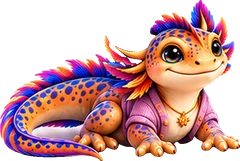
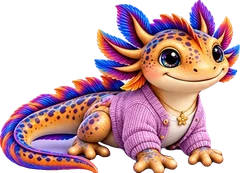
Orange Mom Neut: clean cut from character sheet, both eyes open, even crest

diff --git a/index.html b/index.html
@@ -6,7 +6,7 @@
 <p class="lede blurin">Calendars, journals, and everyday plans in one place.</p>
 <p class="hero-cta"><a class="btn big" href="https://app.ai-neut.com/">Explore the app</a><a class="btn big ghost" href="#neuts">Meet your Neut</a></p>
 <p class="included"><b>Free core app • No ads</b> · Made for ages 13 and up · Phone &amp; web</p><ul class="store-pills" aria-label="App stores"><li class="store-pill"><svg viewBox="0 0 24 24" aria-hidden="true" focusable="false"><path fill="#5B3A99" d="M5 3.5v17a1 1 0 0 0 1.5.86l14.2-8.5a1 1 0 0 0 0-1.72L6.5 2.64A1 1 0 0 0 5 3.5z"/></svg>Google Play <small>— coming soon</small></li><li class="store-pill"><svg viewBox="0 0 24 24" aria-hidden="true" focusable="false"><rect x="6" y="2" width="12" height="20" rx="3" fill="none" stroke="#5B3A99" stroke-width="2"/><circle cx="12" cy="18" r="1.2" fill="#5B3A99"/></svg>App Store <small>— coming soon</small></li></ul></div>
-<div class="hero-visual"><div class="laptop" aria-hidden="true"><div class="lt-screen"><div class="lt-bar"><b>Family calendar</b><span>This week</span></div><div class="lt-week"><div><b>Mon</b><i class="ev1">Soccer 4:00</i><i class="ev4">Grocery run</i></div><div><b>Tue</b><i class="ev2">Library day</i></div><div><b>Wed</b><i class="ev3">Science project due</i><i class="ev5">Dentist 3:30</i></div><div><b>Thu</b><i class="ev4">Piano 5:30</i></div><div><b>Fri</b><i class="ev1">Pizza night</i><i class="ev2">Movie</i></div><div><b>Sat</b><i class="ev3">Volleyball 10:00</i></div><div><b>Sun</b><i class="ev5">Family check-in</i></div></div></div><div class="lt-base"></div></div><div class="stage" role="region" aria-label="Ai-Neut in motion"><div class="screen"><div class="slide" data-bg="media/newt-lens.jpg"><video class="lv-stage" muted playsinline preload="metadata" poster="media/newt-lens.jpg" data-src="media/newt-lens.mp4" data-webm="media/newt-lens.webm" aria-hidden="true"></video><span class="chip">Calendar</span><span class="chip o">One plan for every phone</span></div><div class="slide" data-bg="media/reel-journal.jpg"><video class="lv-stage" muted playsinline preload="none" poster="media/reel-journal.jpg" data-src="media/reel-journal.mp4" data-webm="media/reel-journal.webm" aria-hidden="true"></video><span class="chip">Journal</span><span class="chip o">Keep the good moments</span></div><div class="slide" data-bg="media/reel-themes.jpg"><video class="lv-stage" muted playsinline preload="none" poster="media/reel-themes.jpg" data-src="media/reel-themes.mp4" data-webm="media/reel-themes.webm" aria-hidden="true"></video><span class="chip">Themes</span><span class="chip o">Pick a look for your house</span></div><div class="slide" data-bg="media/reel-newts2.jpg"><video class="lv-stage" muted playsinline preload="none" poster="media/reel-newts2.jpg" data-src="media/reel-newts2.mp4" data-webm="media/reel-newts2.webm" aria-hidden="true"></video><span class="chip">Playful newts</span><span class="chip o">No ads, ever</span></div></div><div class="thumbs"><button type="button" aria-label="Show: Calendar"><img src="media/newt-lens.jpg" alt="" width="62" height="62" loading="lazy"><span class="bar"></span></button><button type="button" aria-label="Show: Journal"><img src="media/reel-journal.jpg" alt="" width="62" height="62" loading="lazy"><span class="bar"></span></button><button type="button" aria-label="Show: Themes"><img src="media/reel-themes.jpg" alt="" width="62" height="62" loading="lazy"><span class="bar"></span></button><button type="button" aria-label="Show: Playful newts"><img src="media/reel-newts2.jpg" alt="" width="62" height="62" loading="lazy"><span class="bar"></span></button></div></div><span class="floaty hero-friend front-o" data-depth="0.06" aria-hidden="true"><img src="img/neuts/neut-orange-240.webp" srcset="img/neuts/neut-orange-240.webp 240w, img/neuts/neut-orange-480.webp 480w" sizes="190px" width="240" height="161" alt="" decoding="async" style="--bob:6.5s;--bd:0s"></span><span class="floaty front-s" data-depth="0.12" aria-hidden="true"><img src="img/neuts/neut-silver-240.webp" srcset="img/neuts/neut-silver-240.webp 240w, img/neuts/neut-silver-480.webp 480w" sizes="170px" width="240" height="227" alt="" decoding="async" style="--bob:6.2s;--bd:-2s"></span></div><div class="hero-cards"><article class="card hcard"><h3>Plan your week</h3><p>Keep everyone on track with shared calendars.</p><p class="who">Dad<span class="tag">Calendar champion</span></p><img src="img/neuts/neut-dad-240.webp" srcset="img/neuts/neut-dad-240.webp 240w, img/neuts/neut-dad-376.webp 376w" sizes="(max-width:860px) 45vw, 16vw" width="240" height="237" alt="Dad Neut in a work jacket" loading="lazy" decoding="async"></article><article class="card hcard"><h3>Make room for school</h3><p>Assignments, due dates, and study planning made simple.</p><p class="who">Teacher<span class="tag">Learning buddy</span></p><img src="img/neuts/neut-teacher-240.webp" width="240" height="309" alt="Teacher Neut with glasses" loading="lazy" decoding="async"></article><article class="card hcard"><h3>Keep the good moments</h3><p>A private journal for everyday memories, gratitude, and growth.</p><p class="who">Mom<span class="tag">Memory keeper</span></p><img src="img/neuts/neut-mom-240.webp" srcset="img/neuts/neut-mom-240.webp 240w, img/neuts/neut-mom-367.webp 367w" sizes="(max-width:860px) 45vw, 16vw" width="240" height="215" alt="Mom Neut in a pink cardigan" loading="lazy" decoding="async"></article></div><span class="scroll-cue" aria-hidden="true">Scroll</span></header>
+<div class="hero-visual"><div class="laptop" aria-hidden="true"><div class="lt-screen"><div class="lt-bar"><b>Family calendar</b><span>This week</span></div><div class="lt-week"><div><b>Mon</b><i class="ev1">Soccer 4:00</i><i class="ev4">Grocery run</i></div><div><b>Tue</b><i class="ev2">Library day</i></div><div><b>Wed</b><i class="ev3">Science project due</i><i class="ev5">Dentist 3:30</i></div><div><b>Thu</b><i class="ev4">Piano 5:30</i></div><div><b>Fri</b><i class="ev1">Pizza night</i><i class="ev2">Movie</i></div><div><b>Sat</b><i class="ev3">Volleyball 10:00</i></div><div><b>Sun</b><i class="ev5">Family check-in</i></div></div></div><div class="lt-base"></div></div><div class="stage" role="region" aria-label="Ai-Neut in motion"><div class="screen"><div class="slide" data-bg="media/newt-lens.jpg"><video class="lv-stage" muted playsinline preload="metadata" poster="media/newt-lens.jpg" data-src="media/newt-lens.mp4" data-webm="media/newt-lens.webm" aria-hidden="true"></video><span class="chip">Calendar</span><span class="chip o">One plan for every phone</span></div><div class="slide" data-bg="media/reel-journal.jpg"><video class="lv-stage" muted playsinline preload="none" poster="media/reel-journal.jpg" data-src="media/reel-journal.mp4" data-webm="media/reel-journal.webm" aria-hidden="true"></video><span class="chip">Journal</span><span class="chip o">Keep the good moments</span></div><div class="slide" data-bg="media/reel-themes.jpg"><video class="lv-stage" muted playsinline preload="none" poster="media/reel-themes.jpg" data-src="media/reel-themes.mp4" data-webm="media/reel-themes.webm" aria-hidden="true"></video><span class="chip">Themes</span><span class="chip o">Pick a look for your house</span></div><div class="slide" data-bg="media/reel-newts2.jpg"><video class="lv-stage" muted playsinline preload="none" poster="media/reel-newts2.jpg" data-src="media/reel-newts2.mp4" data-webm="media/reel-newts2.webm" aria-hidden="true"></video><span class="chip">Playful newts</span><span class="chip o">No ads, ever</span></div></div><div class="thumbs"><button type="button" aria-label="Show: Calendar"><img src="media/newt-lens.jpg" alt="" width="62" height="62" loading="lazy"><span class="bar"></span></button><button type="button" aria-label="Show: Journal"><img src="media/reel-journal.jpg" alt="" width="62" height="62" loading="lazy"><span class="bar"></span></button><button type="button" aria-label="Show: Themes"><img src="media/reel-themes.jpg" alt="" width="62" height="62" loading="lazy"><span class="bar"></span></button><button type="button" aria-label="Show: Playful newts"><img src="media/reel-newts2.jpg" alt="" width="62" height="62" loading="lazy"><span class="bar"></span></button></div></div><span class="floaty hero-friend front-o" data-depth="0.06" aria-hidden="true"><img src="img/neuts/neut-orange-240.webp" srcset="img/neuts/neut-orange-240.webp 240w, img/neuts/neut-orange-480.webp 480w" sizes="190px" width="240" height="173" alt="" decoding="async" style="--bob:6.5s;--bd:0s"></span><span class="floaty front-s" data-depth="0.12" aria-hidden="true"><img src="img/neuts/neut-silver-240.webp" srcset="img/neuts/neut-silver-240.webp 240w, img/neuts/neut-silver-480.webp 480w" sizes="170px" width="240" height="227" alt="" decoding="async" style="--bob:6.2s;--bd:-2s"></span></div><div class="hero-cards"><article class="card hcard"><h3>Plan your week</h3><p>Keep everyone on track with shared calendars.</p><p class="who">Dad<span class="tag">Calendar champion</span></p><img src="img/neuts/neut-dad-240.webp" srcset="img/neuts/neut-dad-240.webp 240w, img/neuts/neut-dad-376.webp 376w" sizes="(max-width:860px) 45vw, 16vw" width="240" height="237" alt="Dad Neut in a work jacket" loading="lazy" decoding="async"></article><article class="card hcard"><h3>Make room for school</h3><p>Assignments, due dates, and study planning made simple.</p><p class="who">Teacher<span class="tag">Learning buddy</span></p><img src="img/neuts/neut-teacher-240.webp" width="240" height="309" alt="Teacher Neut with glasses" loading="lazy" decoding="async"></article><article class="card hcard"><h3>Keep the good moments</h3><p>A private journal for everyday memories, gratitude, and growth.</p><p class="who">Mom<span class="tag">Memory keeper</span></p><img src="img/neuts/neut-mom-240.webp" srcset="img/neuts/neut-mom-240.webp 240w, img/neuts/neut-mom-367.webp 367w" sizes="(max-width:860px) 45vw, 16vw" width="240" height="215" alt="Mom Neut in a pink cardigan" loading="lazy" decoding="async"></article></div><span class="scroll-cue" aria-hidden="true">Scroll</span></header>
 <!--tester-cta:start--><section id="tester-cta" aria-labelledby="tester-cta-h"><div class="tc-card"><picture class="tc-art"><source type="image/webp" srcset="img/doug-300.webp 300w, img/doug-600.webp 600w" sizes="150px"><img src="img/doug-300.png" srcset="img/doug-300.png 300w, img/doug-600.png 600w" sizes="150px" width="300" height="238" alt="Doug, the Ai-Neut newt mascot" loading="lazy" decoding="async"></picture><div class="tc-copy"><h2 id="tester-cta-h">Would you like to be a tester?</h2><p>Help us get <b>Ai-Neut</b> ready for Android. Try it for 14 days and tell us what you think.</p></div><a class="tc-btn" href="/test.html">Become a tester</a></div></section><style>#tester-cta{padding:16px 6% 8px}#tester-cta .tc-card{max-width:880px;margin:auto;box-sizing:border-box;display:flex;align-items:center;gap:18px;background:#000;border-radius:16px;padding:16px 22px;border:2px solid #6B3FA0;box-shadow:0 4px 18px rgba(107,63,160,.25)}#tester-cta .tc-art{flex:0 0 auto;line-height:0}#tester-cta .tc-art img{display:block;width:150px;height:auto}#tester-cta .tc-copy{flex:1 1 auto;min-width:0}#tester-cta h2{margin:0 0 4px;text-align:left;font-size:clamp(1.25rem,3vw,1.6rem);color:#F28C28}#tester-cta p{margin:0;line-height:1.5;color:#C9A8F2}#tester-cta p b{color:#F28C28}#tester-cta .tc-btn{flex:0 0 auto;display:inline-flex;align-items:center;justify-content:center;min-height:44px;box-sizing:border-box;padding:10px 22px;border-radius:30px;background:#6B3FA0;color:#fff;border:2px solid #B48CE8;font-family:sans-serif;font-weight:bold;text-decoration:none;white-space:nowrap}#tester-cta .tc-btn:hover{background:#7d4fb5}#tester-cta .tc-btn:focus-visible{outline:3px solid #F28C28;outline-offset:3px}@media(max-width:600px){#tester-cta .tc-card{flex-direction:column;align-items:stretch;text-align:center;padding:16px}#tester-cta .tc-art{align-self:center}#tester-cta .tc-art img{width:140px}#tester-cta h2{text-align:center}#tester-cta .tc-btn{white-space:normal}}</style><!--tester-cta:end-->
 <section id="neuts" aria-labelledby="neuts-h"><div class="sec-head"><div><h2 id="neuts-h">Find your <span class="o">kind of Neut</span></h2><p>Choose a companion to make your app feel like home.</p></div><a class="btn ghost" href="learning-center.html#companions">Meet all the Neuts →</a></div><div class="neut-row"><figure class="ntile" style="--f:384"><img src="img/neuts/tile-mom.webp" width="384" height="372" alt="Mom Neut" loading="lazy" decoding="async"><figcaption>Mom<br><span class="tag">Memory keeper</span></figcaption></figure><figure class="ntile" style="--f:340"><img src="img/neuts/tile-dad.webp" width="340" height="372" alt="Dad Neut" loading="lazy" decoding="async"><figcaption>Dad<br><span class="tag">Calendar champion</span></figcaption></figure><figure class="ntile" style="--f:350"><img src="img/neuts/tile-skater.webp" width="350" height="372" alt="Skater Girl Neut" loading="lazy" decoding="async"><figcaption>Skater Girl<br><span class="tag">Adventure buddy</span></figcaption></figure><figure class="ntile" style="--f:300"><img src="img/neuts/tile-nurse.webp" width="300" height="372" alt="Nurse Neut" loading="lazy" decoding="async"><figcaption>Nurse<br><span class="tag">Care supporter</span></figcaption></figure><figure class="ntile" style="--f:298"><img src="img/neuts/tile-business.webp" width="298" height="372" alt="Business Professional Neut" loading="lazy" decoding="async"><figcaption>Business Professional<br><span class="tag">Get-it-done friend</span></figcaption></figure><figure class="ntile" style="--f:464"><img src="img/neuts/tile-athlete.webp" width="464" height="372" alt="Athlete Neut" loading="lazy" decoding="async"><figcaption>Athlete<br><span class="tag">Active companion</span></figcaption></figure></div></section>
 <section id="hh-band" aria-labelledby="hh-band-h"><div class="hh-band"><img src="img/neuts/neut-silver-240.webp" width="240" height="227" alt="" loading="lazy" decoding="async"><div><h2 id="hh-band-h">Optional AI <span class="o">•</span> $36/year <span class="o">•</span> Only when you ask in chat</h2><p>Get planning support, ideas, and answers — on your terms.</p></div><a class="btn" href="pricing.html">Learn about Helping Hand →</a></div></section><section id="kid-mode" aria-labelledby="kid-mode-h"><div class="card kid-soon rv"><p class="tag soon">Coming soon</p><h2 id="kid-mode-h">Kid mode with a parent lock</h2><p>A grown-up turns on kid mode on their own phone and picks which kid is using it. The app then locks to kid-safe areas, like the chore shop and art creators. Unlocking it takes the parent's PIN or fingerprint/face unlock.</p><p class="fine">Kid mode isn't available yet. We'll share news here when it is. <a href="safety.html#kid-mode">Read about safety →</a></p></div></section>

diff --git a/learning-center.html b/learning-center.html
@@ -12,7 +12,7 @@
 <article class="card tut"><video class="lv" muted playsinline loop preload="none" poster="media/reel-journal.jpg" data-src="media/reel-journal.mp4" data-webm="media/reel-journal.webm" aria-hidden="true"></video><div class="tb"><h3>Your journal</h3><p>Write down what went right and keep the good moments close.</p><a class="btn ghost" href="family-journal-app.html">Watch tutorial</a></div></article>
 <article class="card tut"><video class="lv" muted playsinline loop preload="none" poster="media/clips/voices.jpg" data-src="media/clips/voices.mp4" aria-hidden="true"></video><div class="tb"><h3>Getting help</h3><p>Answers to common questions, plus how to reach a real person.</p><a class="btn ghost" href="help.html">Watch tutorial</a></div></article>
 </div></div></section>
-<section id="companions" aria-labelledby="comp-h"><div class="lc-wrap"><h2 id="comp-h">Make it yours</h2><p class="picker-note" style="text-align:center;margin:-6px 0 18px">Choose a Neut to preview it here. You can pick your companion inside the app, too.</p><ul class="picker" aria-label="Choose a Neut"><li><button type="button" data-neut="original" data-src="img/neuts/neut-orange-240.webp" aria-pressed="false"><img src="img/neuts/neut-orange-240.webp" width="240" height="161" alt="" loading="lazy" decoding="async">Original</button></li><li><button type="button" data-neut="silver" data-src="img/neuts/neut-silver-240.webp" aria-pressed="false"><img src="img/neuts/neut-silver-240.webp" width="240" height="227" alt="" loading="lazy" decoding="async">Silver Lightning</button></li><li><button type="button" data-neut="skater" data-src="img/neuts/neut-skater-240.webp" aria-pressed="false"><img src="img/neuts/neut-skater-240.webp" width="240" height="221" alt="" loading="lazy" decoding="async">Skater Girl</button></li><li><button type="button" data-neut="business" data-src="img/neuts/neut-business-240.webp" aria-pressed="false"><img src="img/neuts/neut-business-240.webp" width="240" height="260" alt="" loading="lazy" decoding="async">Business Professional</button></li><li><button type="button" data-neut="volleyball" data-src="img/neuts/neut-volleyball-240.webp" aria-pressed="false"><img src="img/neuts/neut-volleyball-240.webp" width="240" height="328" alt="" loading="lazy" decoding="async">Volleyball</button></li></ul><p class="picker-note" id="pick-status" role="status" aria-live="polite"></p></div></section>
+<section id="companions" aria-labelledby="comp-h"><div class="lc-wrap"><h2 id="comp-h">Make it yours</h2><p class="picker-note" style="text-align:center;margin:-6px 0 18px">Choose a Neut to preview it here. You can pick your companion inside the app, too.</p><ul class="picker" aria-label="Choose a Neut"><li><button type="button" data-neut="original" data-src="img/neuts/neut-orange-240.webp" aria-pressed="false"><img src="img/neuts/neut-orange-240.webp" width="240" height="173" alt="" loading="lazy" decoding="async">Original</button></li><li><button type="button" data-neut="silver" data-src="img/neuts/neut-silver-240.webp" aria-pressed="false"><img src="img/neuts/neut-silver-240.webp" width="240" height="227" alt="" loading="lazy" decoding="async">Silver Lightning</button></li><li><button type="button" data-neut="skater" data-src="img/neuts/neut-skater-240.webp" aria-pressed="false"><img src="img/neuts/neut-skater-240.webp" width="240" height="221" alt="" loading="lazy" decoding="async">Skater Girl</button></li><li><button type="button" data-neut="business" data-src="img/neuts/neut-business-240.webp" aria-pressed="false"><img src="img/neuts/neut-business-240.webp" width="240" height="260" alt="" loading="lazy" decoding="async">Business Professional</button></li><li><button type="button" data-neut="volleyball" data-src="img/neuts/neut-volleyball-240.webp" aria-pressed="false"><img src="img/neuts/neut-volleyball-240.webp" width="240" height="328" alt="" loading="lazy" decoding="async">Volleyball</button></li></ul><p class="picker-note" id="pick-status" role="status" aria-live="polite"></p></div></section>
 <section id="help-cards" aria-label="Voice help and Helping Hand"><div class="lc-wrap two-up">
 <article class="card info-card"><span class="mic"><svg viewBox="0 0 24 24" width="24" height="24" aria-hidden="true" focusable="false"><rect x="9" y="3" width="6" height="11" rx="3" fill="currentColor"/><path d="M6 11a6 6 0 0 0 12 0M12 17v4M9 21h6" fill="none" stroke="currentColor" stroke-width="2" stroke-linecap="round"/></svg></span><p class="plan">Included with the core app</p><h3>Need help with the mic?</h3><p>Voice entry uses your phone's own microphone and voice. If it isn't listening:</p><ul><li>Allow microphone access for Ai-Neut when your phone asks</li><li>Check that no other app is using the mic</li><li>Close and reopen the app, then tap the mic again</li></ul><a class="btn ghost" href="help.html">More help →</a></article>
 <article class="card info-card navy" id="helping-hand"><img style="position:absolute;right:12px;top:-6px;width:96px;height:auto" src="img/neuts/neut-silver-240.webp" width="240" height="227" alt="" loading="lazy" decoding="async"><p class="plan">Optional AI • $36/year</p><h3>Helping Hand</h3><ul><li>Only responds when you ask in its chat boxes</li><li>Helps with planning, ideas, and organization</li><li>You're always in control</li></ul><p>$5 top-offs are available if you need more. Renewal and cancellation terms are shown before you pay.</p><a class="btn" href="pricing.html">See pricing →</a></article>
